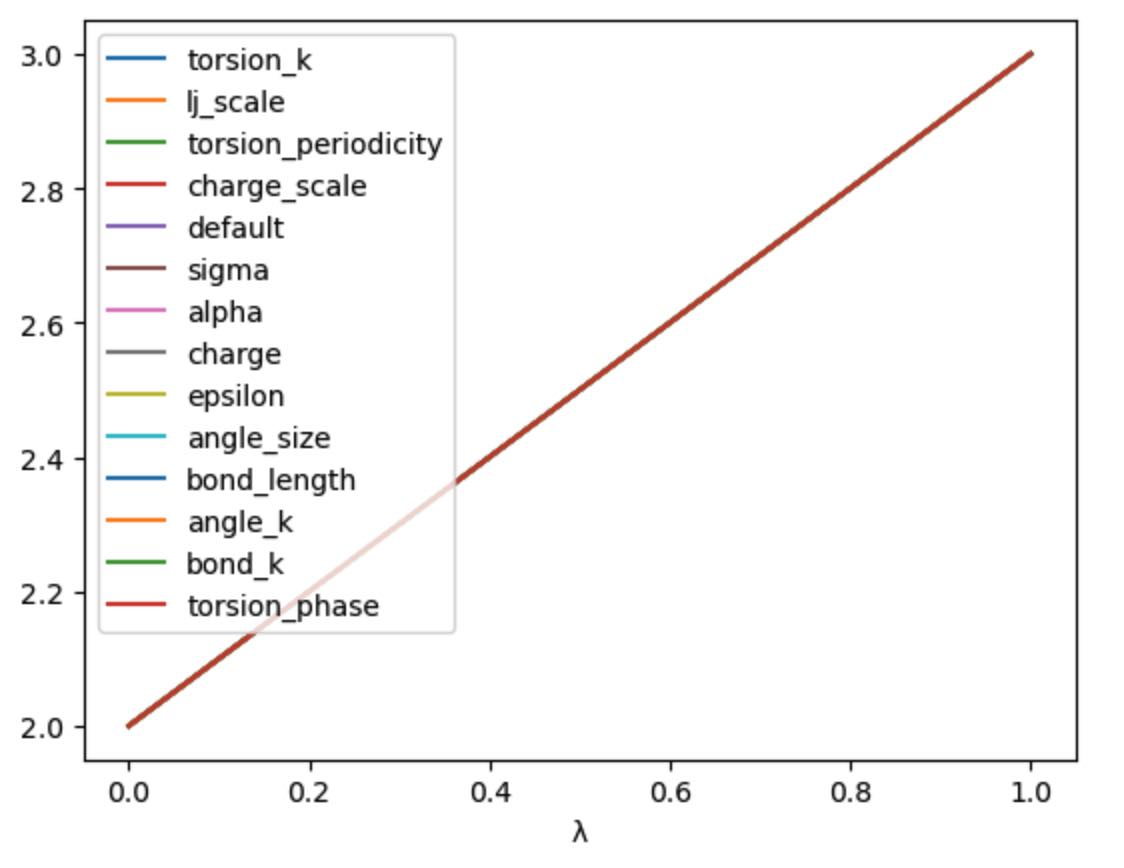
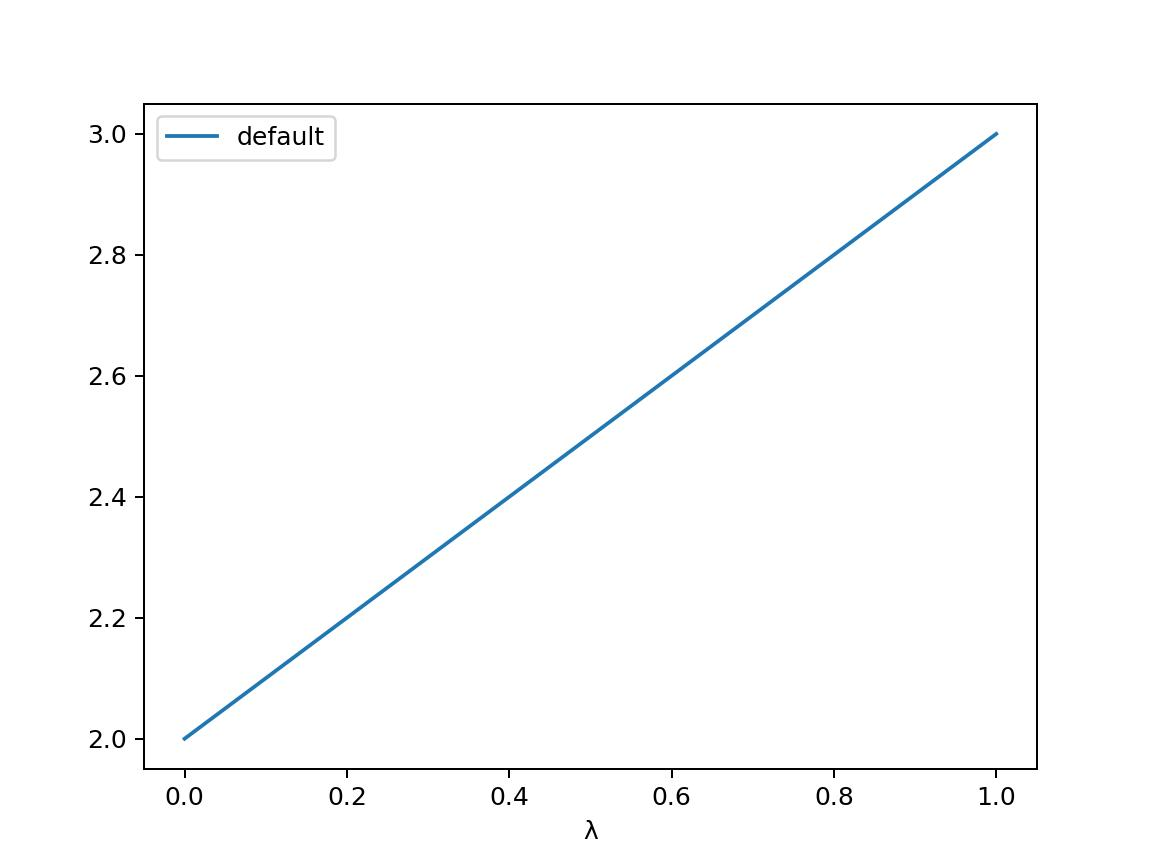
Update images to in line with actual outputs and remove redundant note

Changed region(s): [[0.0, 0.0, 0.9653, 0.9375], [0.3737, 0.0938, 0.4359, 0.125], [0.4982, 0.9375, 0.5294, 0.9688]]

diff --git a/doc/source/tutorial/part06/02_alchemical_dynamics.rst b/doc/source/tutorial/part06/02_alchemical_dynamics.rst
@@ -340,14 +340,6 @@ from an ``initial`` value of 2.0 to a ``final`` value of 3.0 via
    :alt: View of the λ-schedule that sandwiches a standard morph stage
           between two stages that scale the charge lever.
 
-.. note::
-
-   Schedules constructed outside of the dynamics simulation do not have
-   the full set of levers (e.g. torsion_k, dih_scale etc) as
-   levers are only added as they are needed (hence why only
-   ``default`` and ``charge`` are shown here). The additional levers
-   are added when the schedule is added to the simulation.
-
 Once you have created your schedule you can add it via the
 :meth:`~sire.mol.Dynamics.set_schedule` function of the
 :class:`~sire.mol.Dynamics` object, e.g.
